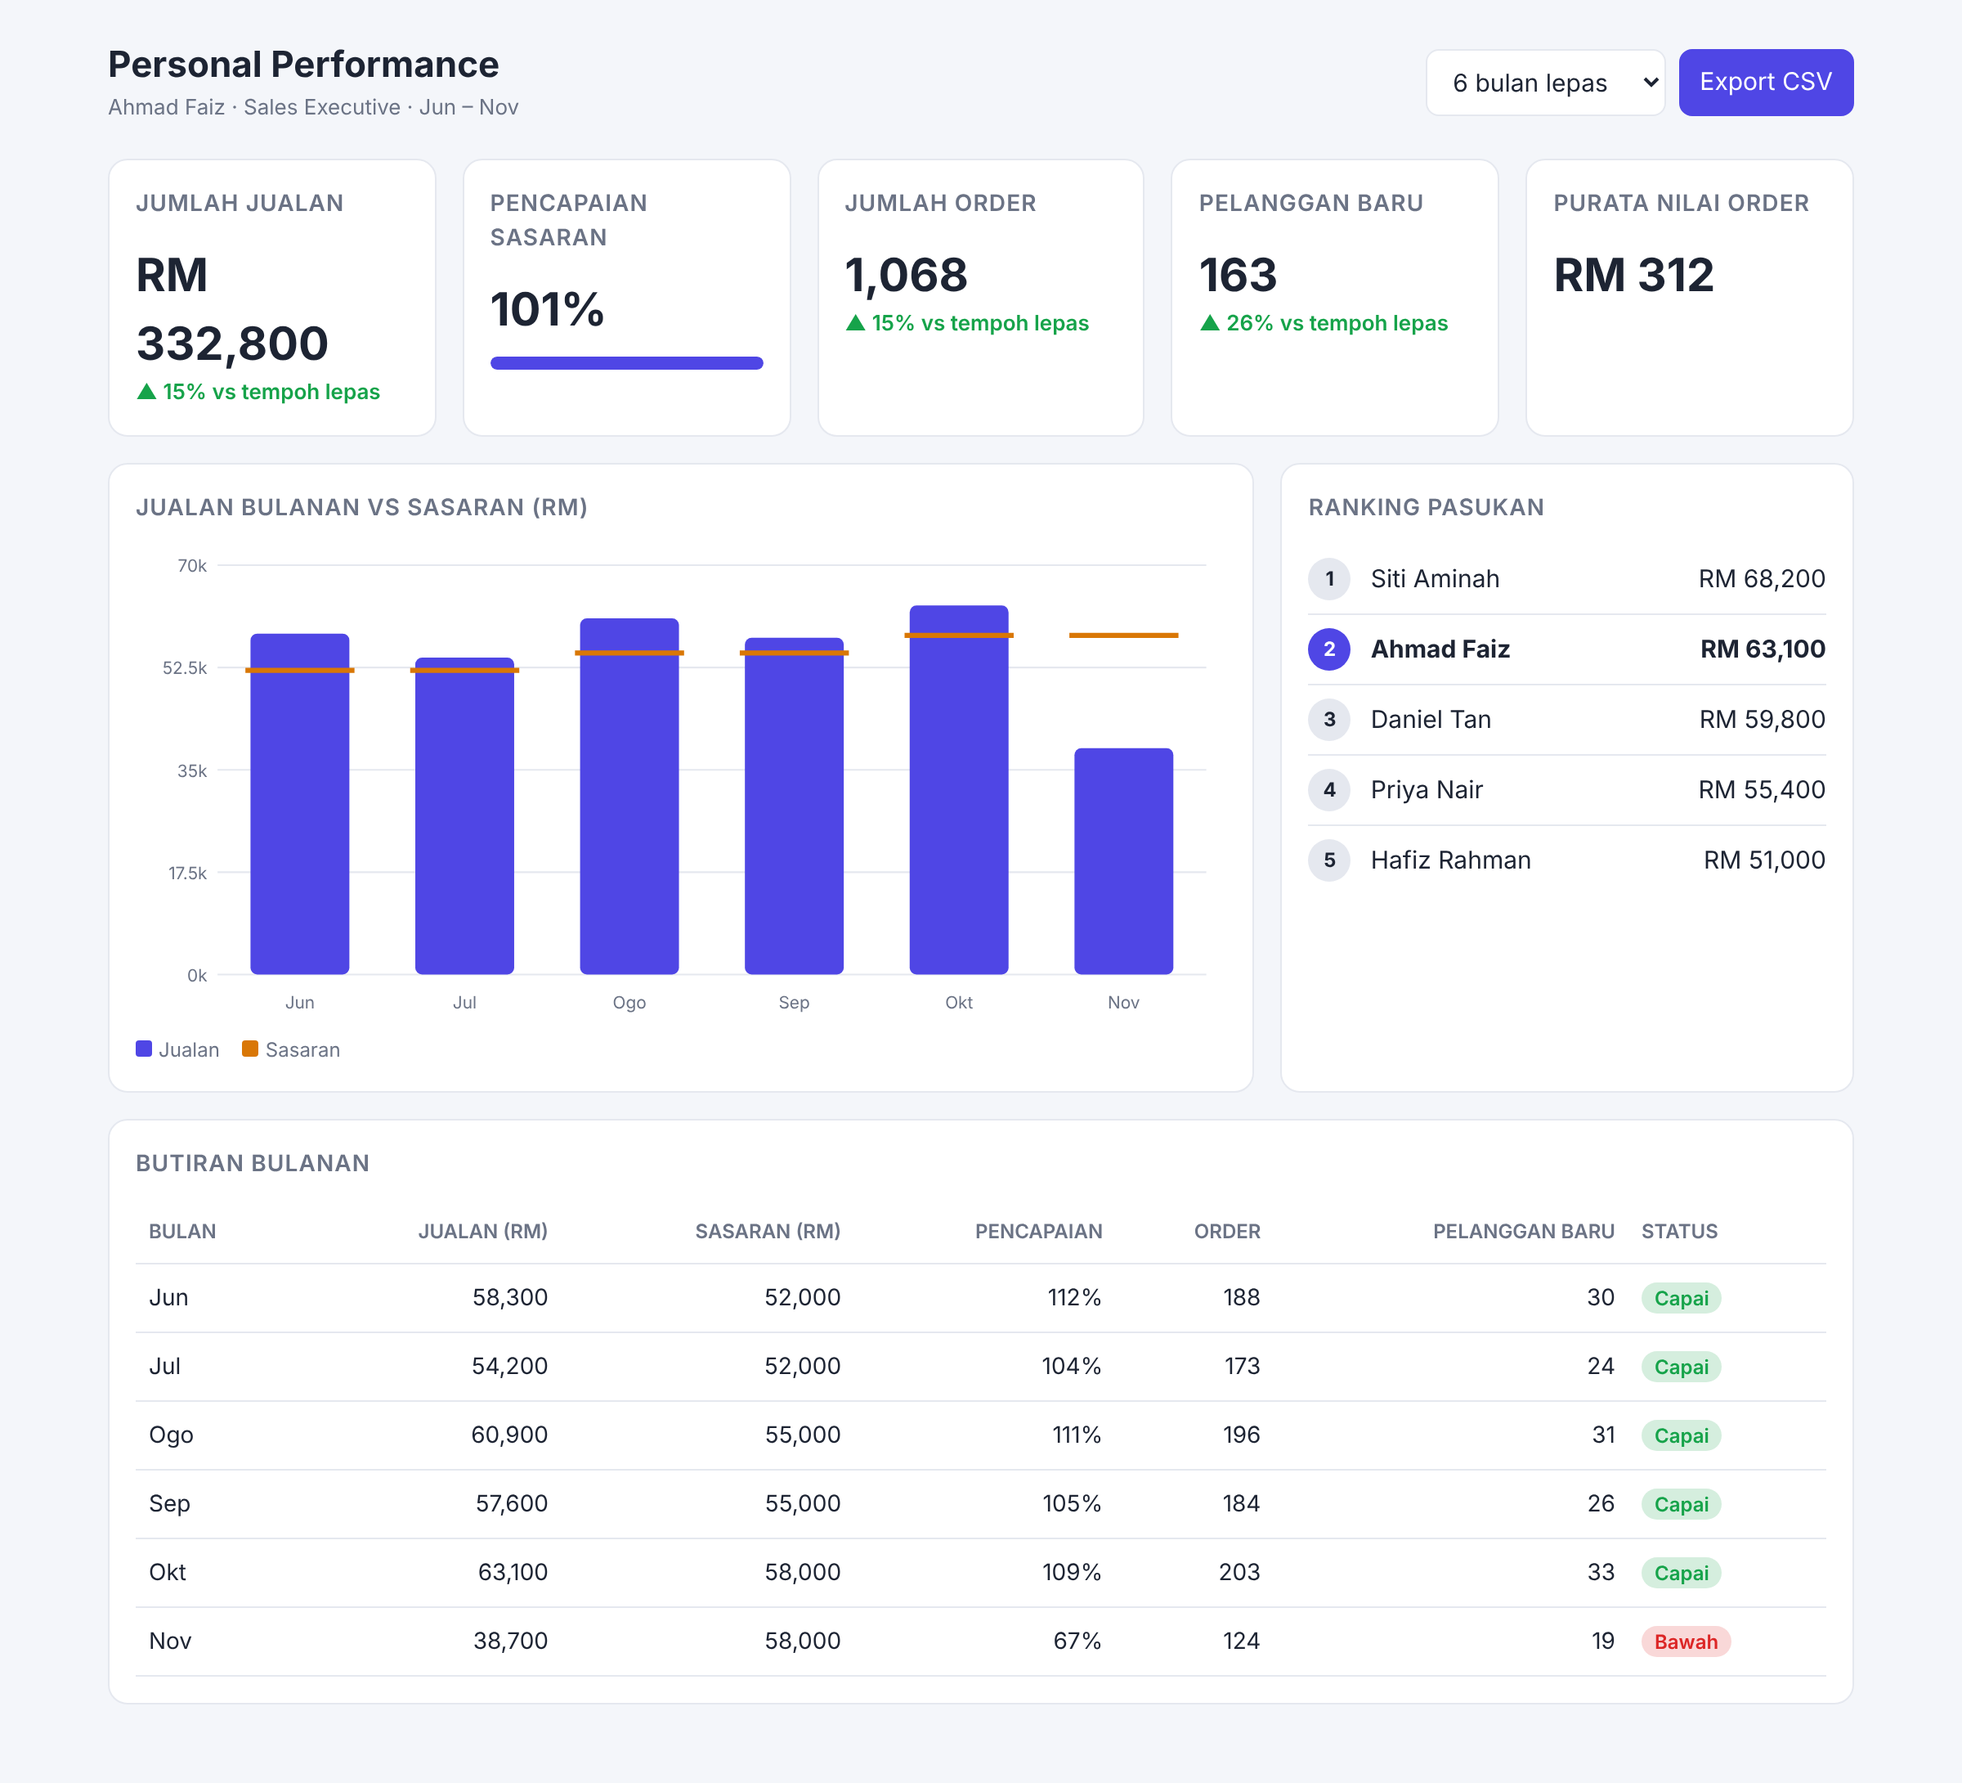
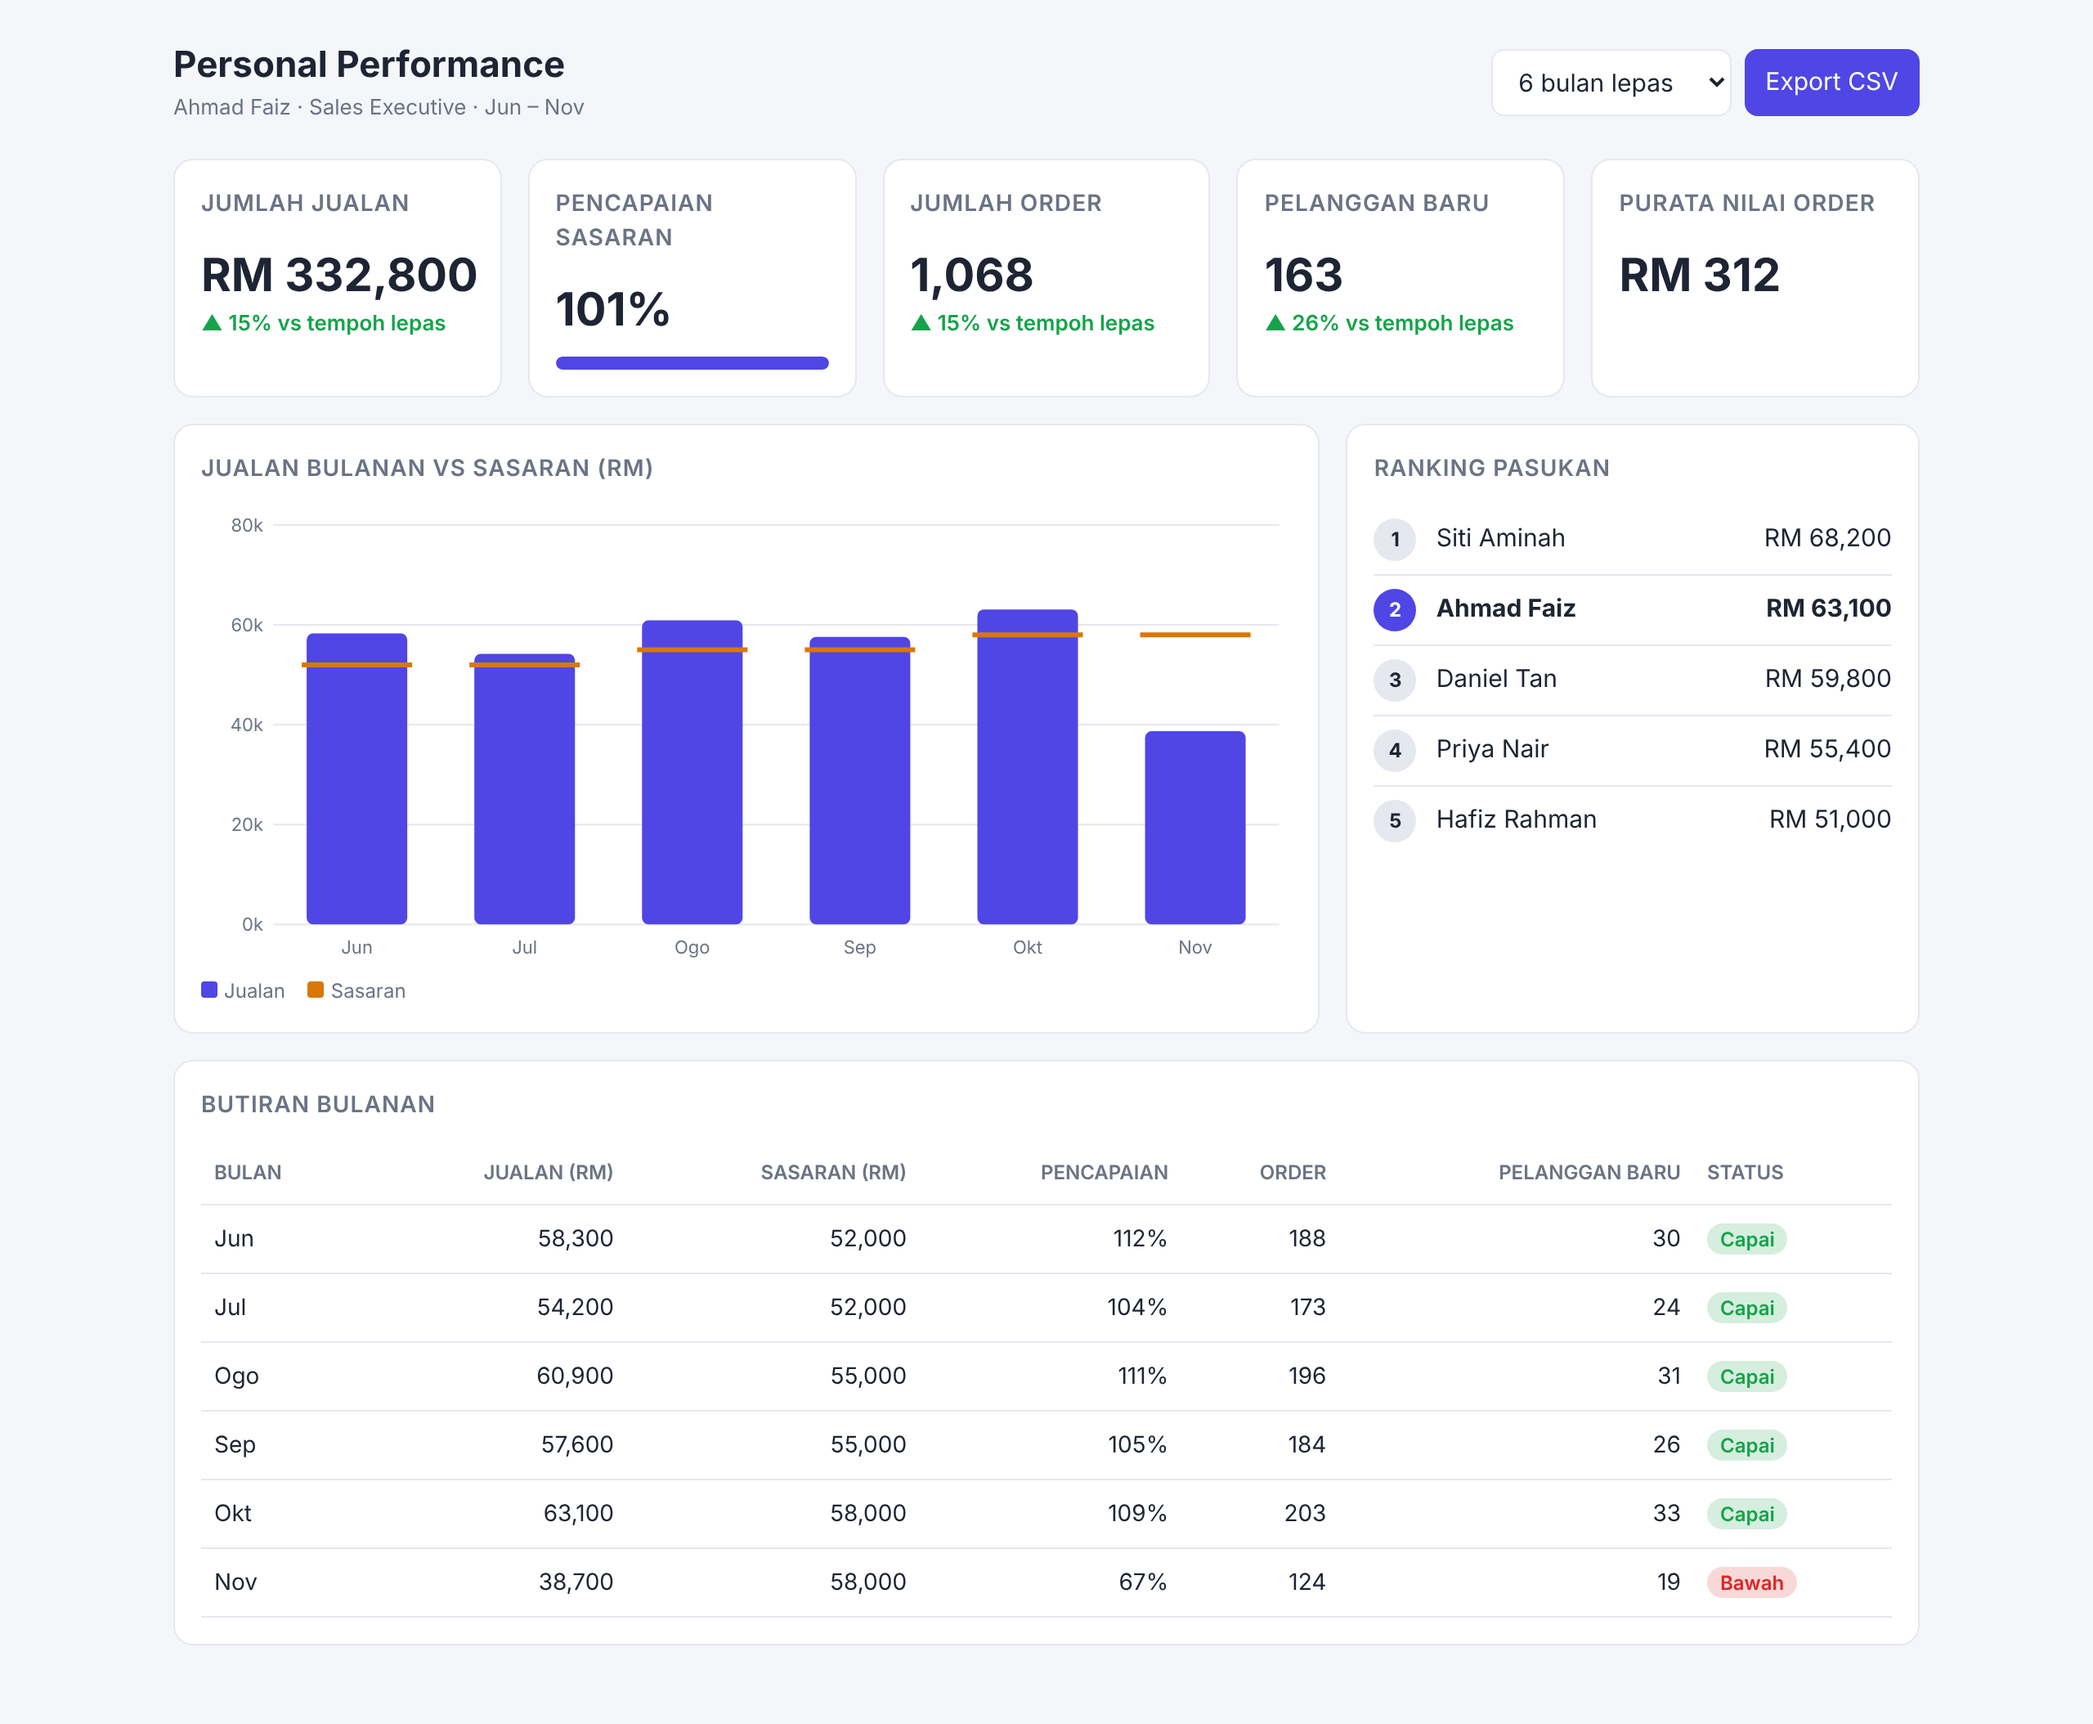
Polish personal performance dashboard for mobile
- KPI cards in 2-column grid on phones
- Chart redraws at container width with readable labels and round ticks
- Monthly table becomes compact cards under 640px
- Full-width controls with 44px tap targets
- Refresh desktop preview, add mobile preview

Claude-Session: https://claude.ai/code/session_012cKHDxEphir6Ehi8YmtctY

diff --git a/personal-performance/index.html b/personal-performance/index.html
@@ -22,7 +22,7 @@
   @media(max-width:800px){.two{grid-template-columns:1fr}}
   .card{background:var(--card);border:1px solid var(--line);border-radius:12px;padding:16px}
   .card h2{font-size:14px;margin:0 0 12px;color:var(--muted);font-weight:600;text-transform:uppercase;letter-spacing:.04em}
-  .kpi .val{font-size:28px;font-weight:700}
+  .kpi .val{font-size:clamp(20px,2.2vw,28px);font-weight:700;white-space:nowrap}
   .kpi .delta{font-size:13px;font-weight:600}
   .up{color:var(--good)}.down{color:var(--bad)}
   .bar{height:8px;background:var(--line);border-radius:99px;overflow:hidden;margin-top:8px}
@@ -43,6 +43,35 @@
   .rank .n{width:26px;height:26px;border-radius:50%;background:var(--line);display:grid;place-items:center;font-size:12px;font-weight:700}
   .rank.me{font-weight:700}.rank.me .n{background:var(--accent);color:#fff}
   .rank .name{flex:1}
+  .mtag{display:none}
+  @media(max-width:640px){.mtag{display:inline}}
+  .chart-wrap{min-height:200px}
+  @media(max-width:640px){
+    .wrap{padding:16px 12px 32px}
+    h1{font-size:20px}
+    header{margin-bottom:14px}
+    .controls{width:100%}
+    .controls select,.controls button{flex:1;min-height:44px}
+    .grid{gap:10px}
+    .kpis{grid-template-columns:1fr 1fr;margin-bottom:10px}
+    .kpis .card:last-child:nth-child(odd){grid-column:1/-1}
+    .two{margin-bottom:10px}
+    .card{padding:14px;border-radius:10px}
+    .card h2{font-size:11px;margin-bottom:8px}
+    .kpi .val{font-size:21px}
+    .kpi .delta{font-size:12px}
+    /* Jadual jadi senarai kad */
+    table thead{display:none}
+    table,tbody,tr,td{display:block;width:100%}
+    tr{display:grid;grid-template-columns:repeat(3,1fr);gap:6px 10px;padding:10px 0;border-bottom:1px solid var(--line)}
+    tr:last-child{border-bottom:0}
+    td{border:0;padding:0;text-align:left!important;font-size:13px}
+    td::before{content:attr(data-l);display:block;color:var(--muted);font-size:11px;text-transform:uppercase;letter-spacing:.03em}
+    td.m{grid-column:1/-1;display:flex;justify-content:space-between;align-items:center;font-weight:700;font-size:15px}
+    td::before{font-size:10px}
+    td.m::before{display:none}
+    td.st{display:none}
+  }
 </style>
 </head>
 <body>
@@ -67,7 +96,7 @@
   <section class="grid two">
     <div class="card">
       <h2>Jualan Bulanan vs Sasaran (RM)</h2>
-      <div id="chart"></div>
+      <div id="chart" class="chart-wrap"></div>
       <div class="legend"><span><i style="background:var(--accent)"></i>Jualan</span><span><i style="background:var(--warn)"></i>Sasaran</span></div>
     </div>
     <div class="card">
@@ -132,28 +161,31 @@ function render(){
   chart(view);
   $("rows").innerHTML=view.map(r=>{
     const p=pct(r.sales,r.target), c=p>=100?"ok":p>=90?"mid":"low", s=p>=100?"Capai":p>=90?"Hampir":"Bawah";
-    return `<tr><td>${r.m}</td><td class="num">${fmt(r.sales)}</td><td class="num">${fmt(r.target)}</td><td class="num">${p}%</td><td class="num">${r.orders}</td><td class="num">${r.newc}</td><td><span class="tag ${c}">${s}</span></td></tr>`;
+    const tag=`<span class="tag ${c}">${s}</span>`;
+    return `<tr><td class="m">${r.m}<span class="mtag">${tag}</span></td><td class="num" data-l="Jualan (RM)">${fmt(r.sales)}</td><td class="num" data-l="Sasaran (RM)">${fmt(r.target)}</td><td class="num" data-l="Pencapaian">${p}%</td><td class="num" data-l="Order">${r.orders}</td><td class="num" data-l="Pelanggan Baru">${r.newc}</td><td class="st">${tag}</td></tr>`;
   }).join("");
   $("rank").innerHTML=TEAM.map((t,i)=>`<div class="rank ${t[0]==="Ahmad Faiz"?"me":""}"><span class="n">${i+1}</span><span class="name">${t[0]}</span><span>RM ${fmt(t[1])}</span></div>`).join("");
 }
 
 function chart(rows){
-  const W=640,H=280,P={l:48,r:12,t:12,b:28};
-  const max=Math.ceil(Math.max(...rows.map(r=>Math.max(r.sales,r.target)))/10000)*10000;
+  const cw=$("chart").clientWidth||640, small=cw<480;
+  const W=Math.max(280,Math.round(cw)),H=small?220:280,P={l:small?34:44,r:8,t:12,b:24};
+  const max=Math.ceil(Math.max(...rows.map(r=>Math.max(r.sales,r.target)))*1.05/20000)*20000;
   const iw=W-P.l-P.r, ih=H-P.t-P.b, bw=iw/rows.length;
   const y=v=>P.t+ih-v/max*ih;
   let s=`<svg viewBox="0 0 ${W} ${H}" role="img" aria-label="Carta jualan vs sasaran">`;
-  for(let i=0;i<=4;i++){const v=max/4*i;s+=`<line x1="${P.l}" x2="${W-P.r}" y1="${y(v)}" y2="${y(v)}" stroke="var(--line)"/><text x="${P.l-6}" y="${y(v)+4}" text-anchor="end" font-size="10" fill="var(--muted)">${v/1000}k</text>`;}
+  for(let i=0;i<=4;i++){const v=max/4*i;s+=`<line x1="${P.l}" x2="${W-P.r}" y1="${y(v)}" y2="${y(v)}" stroke="var(--line)"/><text x="${P.l-6}" y="${y(v)+4}" text-anchor="end" font-size="11" fill="var(--muted)">${v/1000}k</text>`;}
   rows.forEach((r,i)=>{
     const x=P.l+i*bw+bw*.2, w=bw*.6;
     s+=`<rect x="${x}" y="${y(r.sales)}" width="${w}" height="${P.t+ih-y(r.sales)}" rx="4" fill="var(--accent)"><title>${r.m}: RM ${fmt(r.sales)}</title></rect>`;
     s+=`<line x1="${x-3}" x2="${x+w+3}" y1="${y(r.target)}" y2="${y(r.target)}" stroke="var(--warn)" stroke-width="3"><title>Sasaran: RM ${fmt(r.target)}</title></line>`;
-    s+=`<text x="${x+w/2}" y="${H-8}" text-anchor="middle" font-size="10" fill="var(--muted)">${r.m.split(" ")[0]}</text>`;
+    if(!small||rows.length<=6||i%2===(rows.length-1)%2) s+=`<text x="${x+w/2}" y="${H-6}" text-anchor="middle" font-size="11" fill="var(--muted)">${r.m.split(" ")[0]}</text>`;
   });
   $("chart").innerHTML=s+"</svg>";
 }
 
 $("period").addEventListener("change",render);
+let rt;addEventListener("resize",()=>{clearTimeout(rt);rt=setTimeout(()=>chart(view),120)});
 $("export").addEventListener("click",()=>{
   const csv=["Bulan,Jualan,Sasaran,Order,PelangganBaru",...view.map(r=>[r.m,r.sales,r.target,r.orders,r.newc].join(","))].join("\n");
   const a=document.createElement("a");
